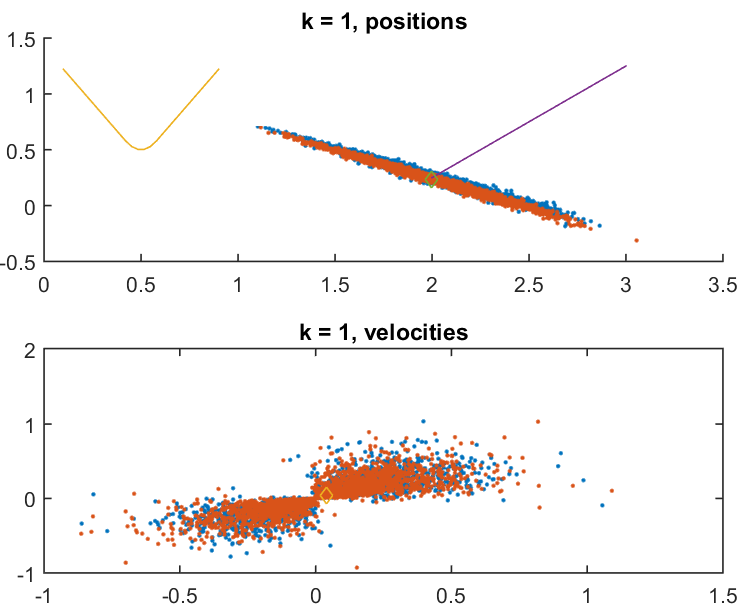
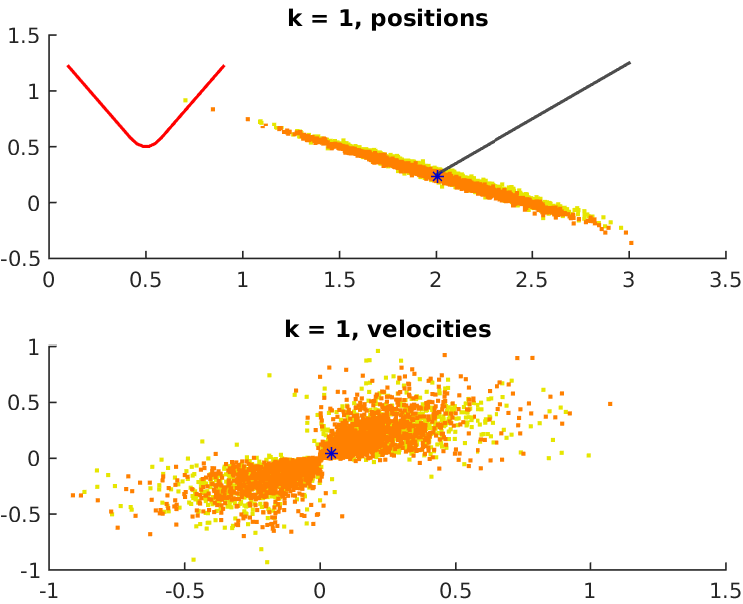
Better colors for plots q4

diff --git a/matlab/plot_q4.m b/matlab/plot_q4.m
@@ -15,17 +15,17 @@ for k = [1, 2, 3, 15, 26]
     subplot(2, 1, 1);
     title(sprintf('k = %i, positions', k));
     hold on;
-    plot(...
-        xt_pre_resampling(1,:,k), xt_pre_resampling(2,:,k), '.',...
-        xt_post_resampling(1,:,k), xt_post_resampling(2,:,k), '.');
-    plot(observer(1,:), observer(2,:), target(1,:), target(2,:));
-	plot(xt_estimated(1,1:k), xt_estimated(2,1:k), 'd');
+	plot(xt_pre_resampling(1,:,k), xt_pre_resampling(2,:,k), '.', 'MarkerEdgeColor', [.9 .9 0]);
+	plot(xt_post_resampling(1,:,k), xt_post_resampling(2,:,k), '.', 'MarkerEdgeColor', [1 .5 0]);
+    plot(observer(1,:), observer(2,:), 'r', 'LineWidth', 1.5);
+    plot(target(1,:), target(2,:), 'Color', [.3 .3 .3], 'LineWidth', 1.5);
+	plot(xt_estimated(1,1:k), xt_estimated(2,1:k), '*', 'MarkerEdgeColor', [0 0 .8]);
 %    legend({'pre resampling', 'post resampling', 'observer', 'target', 'estimated target'}, 'Location', 'best');
     subplot(2, 1, 2);
-    plot(...
-        xt_pre_resampling(3,:,k), xt_pre_resampling(4,:,k), '.',...
-        xt_post_resampling(3,:,k), xt_post_resampling(4,:,k), '.',...
-        target_velocities(1,k), target_velocities(2,k), 'd');
+    hold on;
+	plot(xt_pre_resampling(3,:,k), xt_pre_resampling(4,:,k), '.', 'MarkerEdgeColor', [.9 .9 0]);
+	plot(xt_post_resampling(3,:,k), xt_post_resampling(4,:,k), '.', 'MarkerEdgeColor', [1 .5 0]);
+	plot(target_velocities(1,k), target_velocities(2,k), '*', 'MarkerEdgeColor', [0 0 .8]);
     title(sprintf('k = %i, velocities', k));
 %    legend({'pre resampling', 'post resampling', 'true (almost)'}, 'Location', 'best');
     tightfig();
